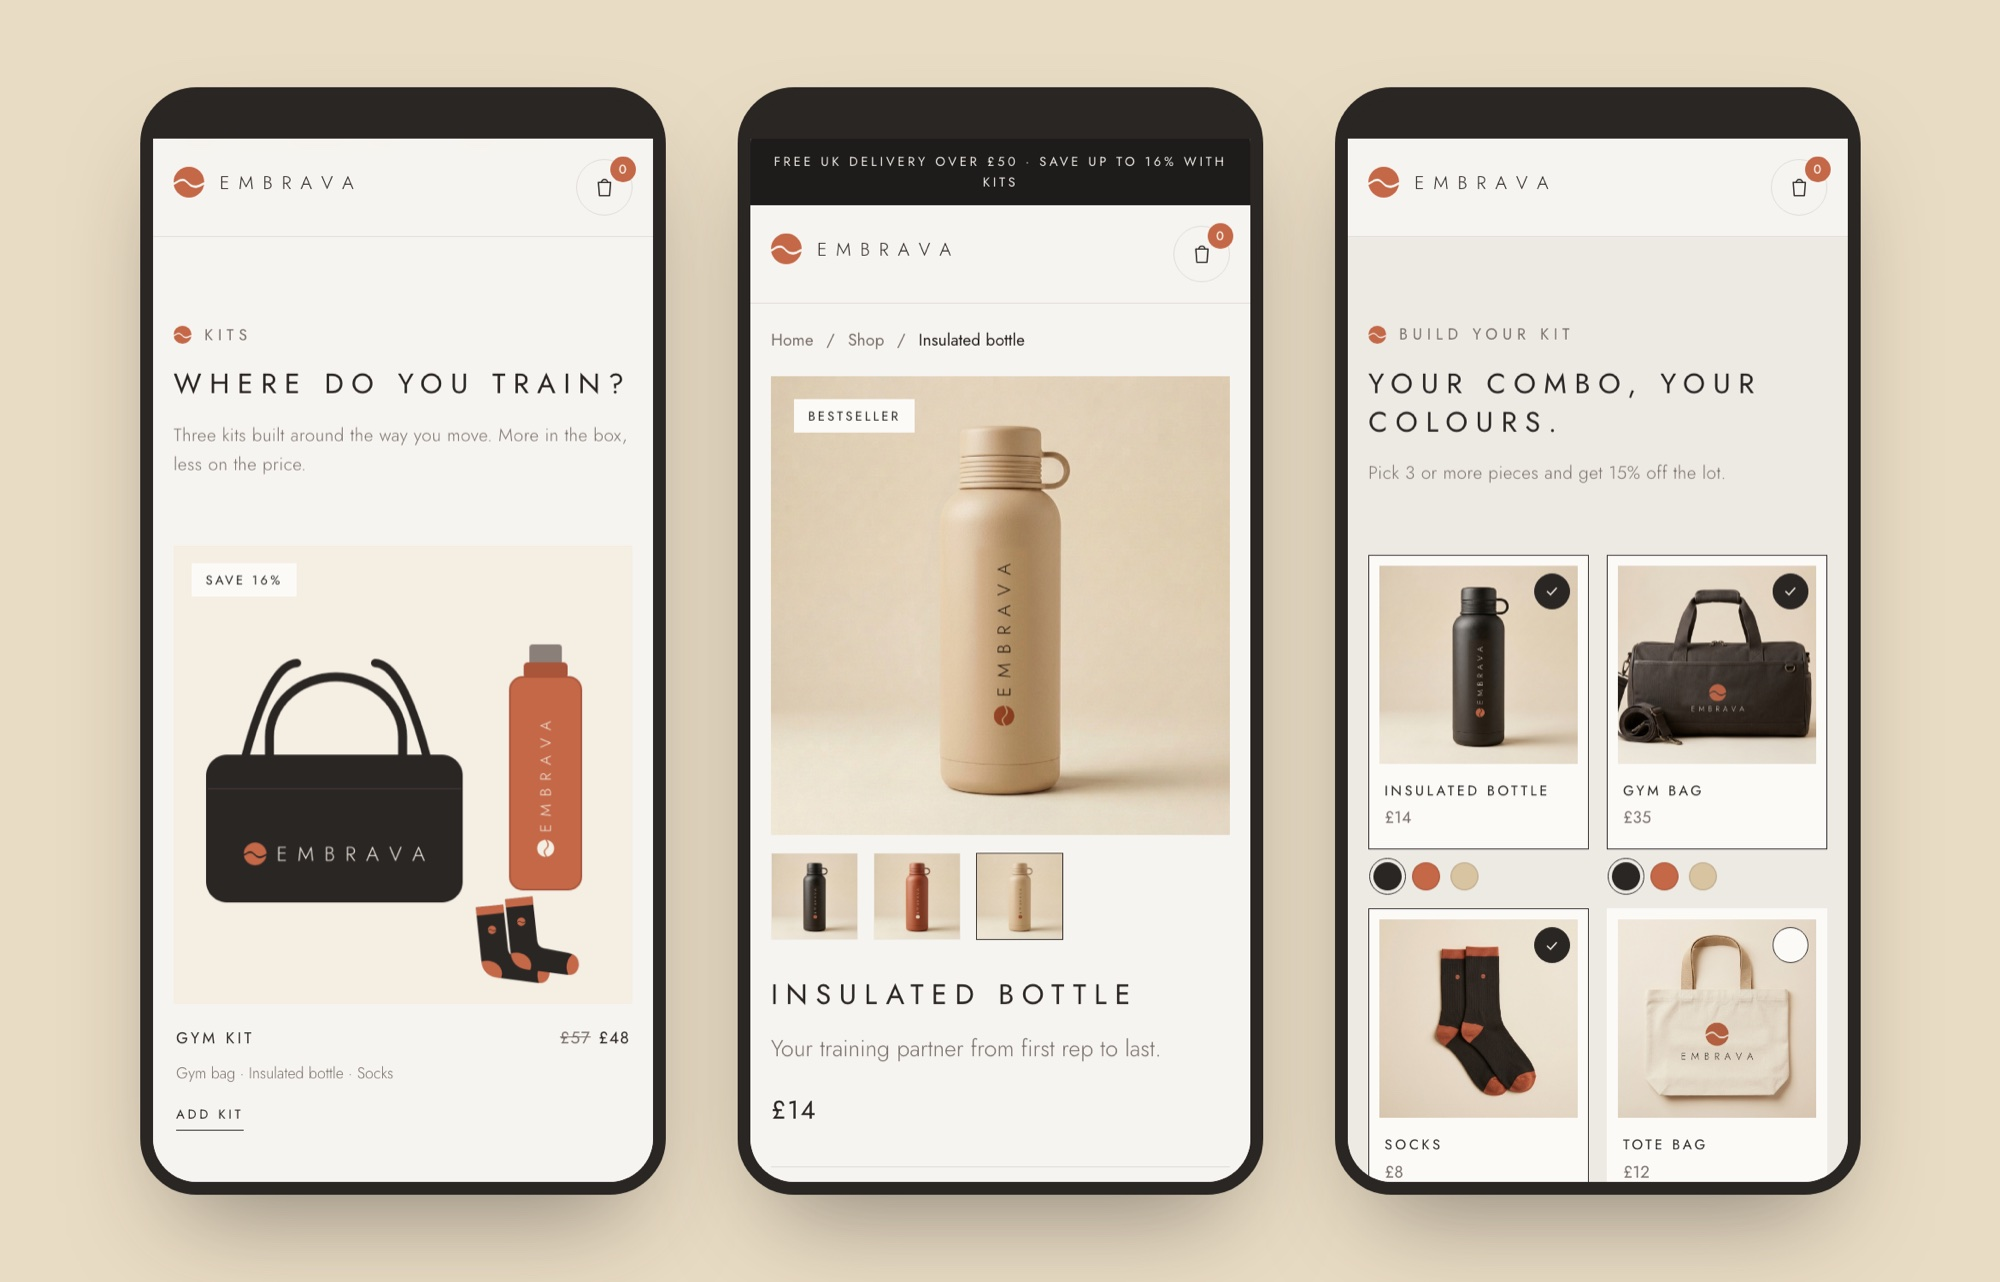
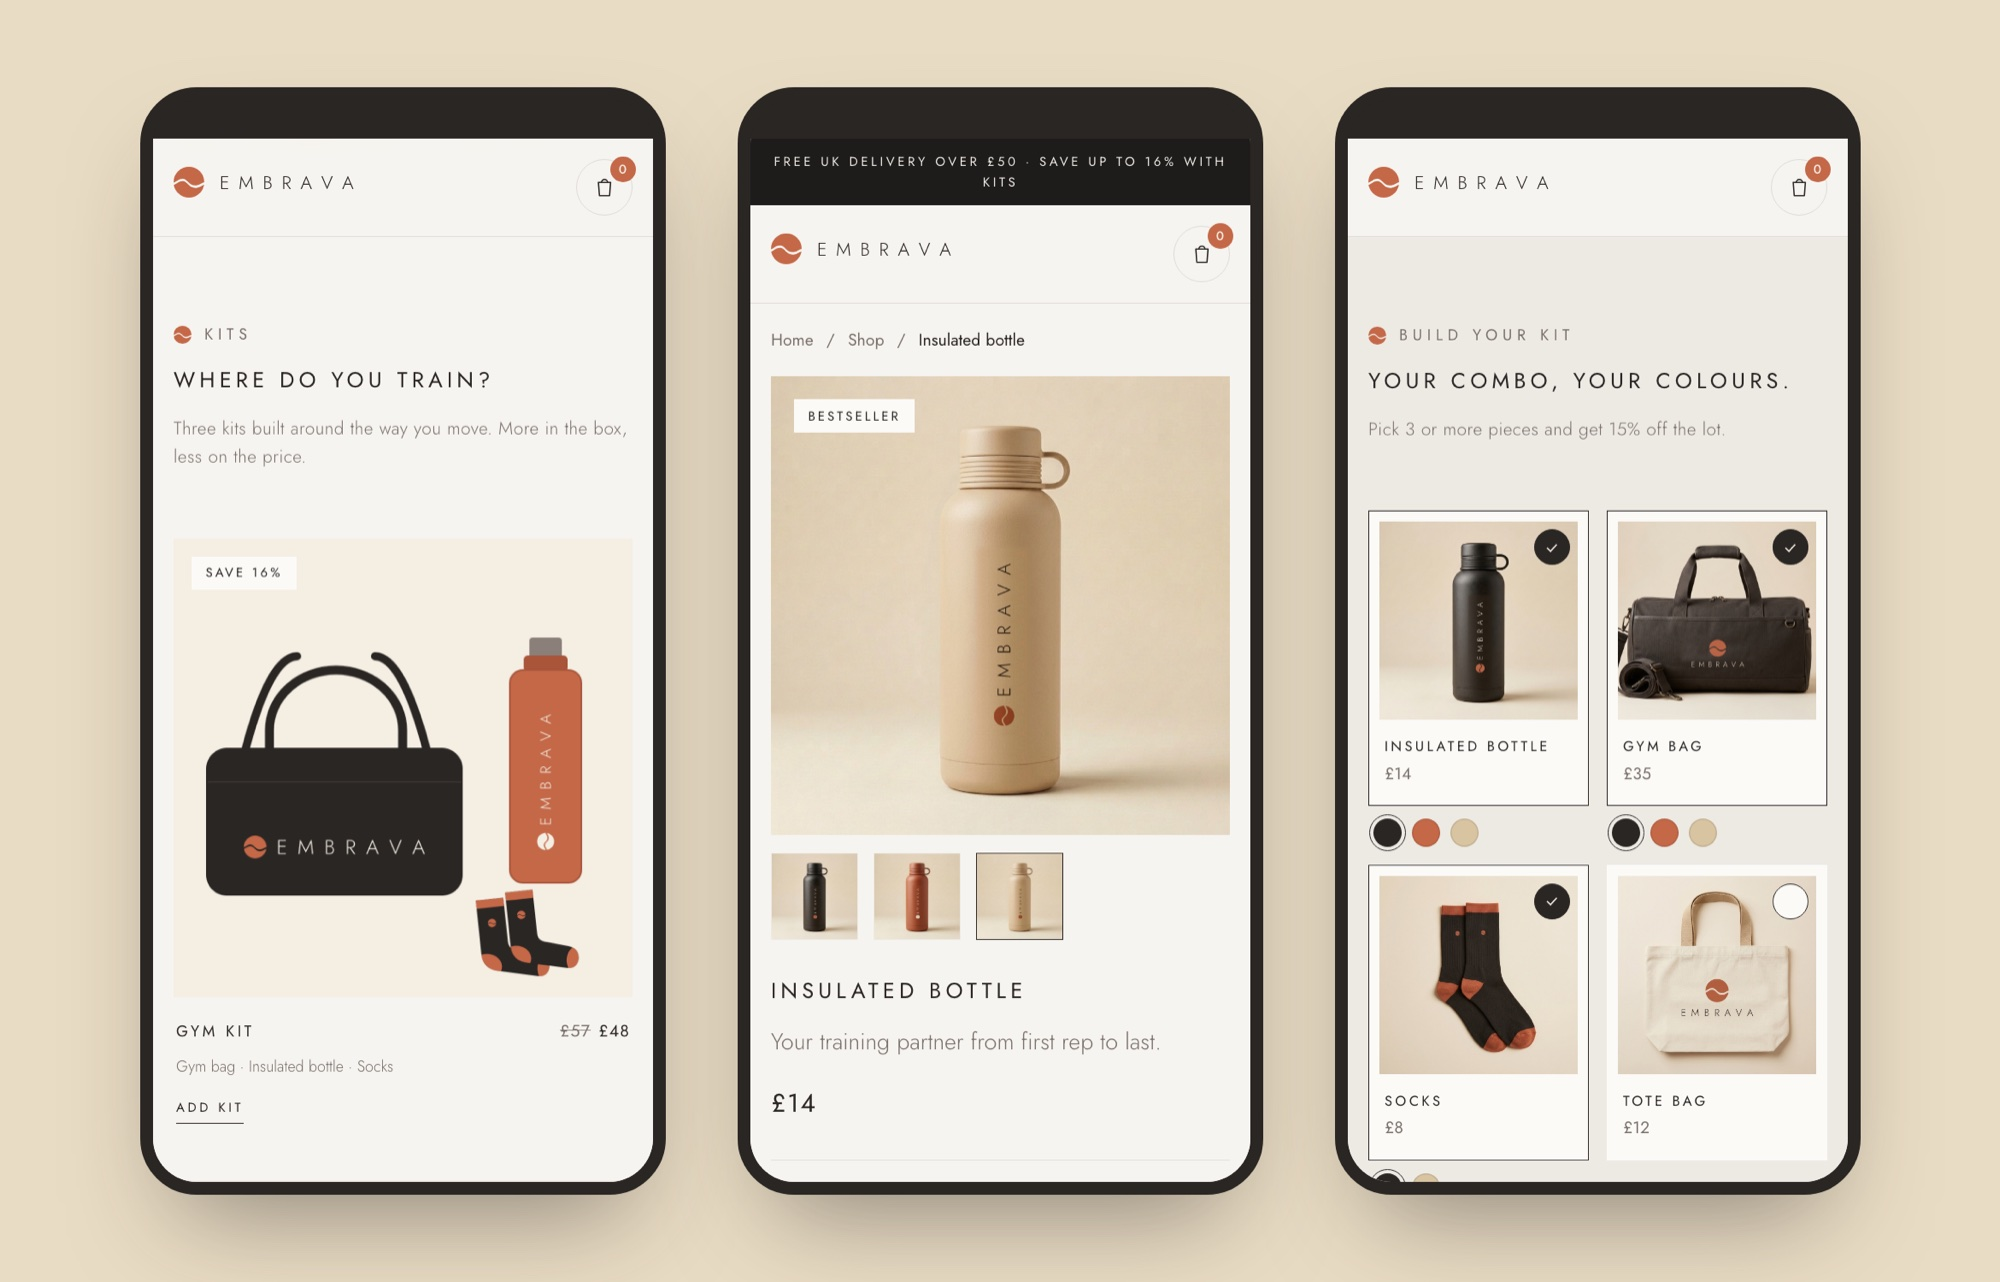
Smaller, tighter titles on phones

diff --git a/styles.css b/styles.css
@@ -443,3 +443,9 @@ strong { font-weight: 500; }
 }
 @media (max-width: 860px) { body.has-sticky .toast { bottom: 96px; } }
 .footer__legal a { color: var(--grey); }
+
+/* Smaller, tighter titles on phones */
+@media (max-width: 560px) {
+  .hero h1, .section__head h2, .gift__copy h2, .pdp__info h1 { font-size: 17px; letter-spacing: .2em; line-height: 1.45; }
+  .hero h1 { margin-bottom: 24px; }
+}
